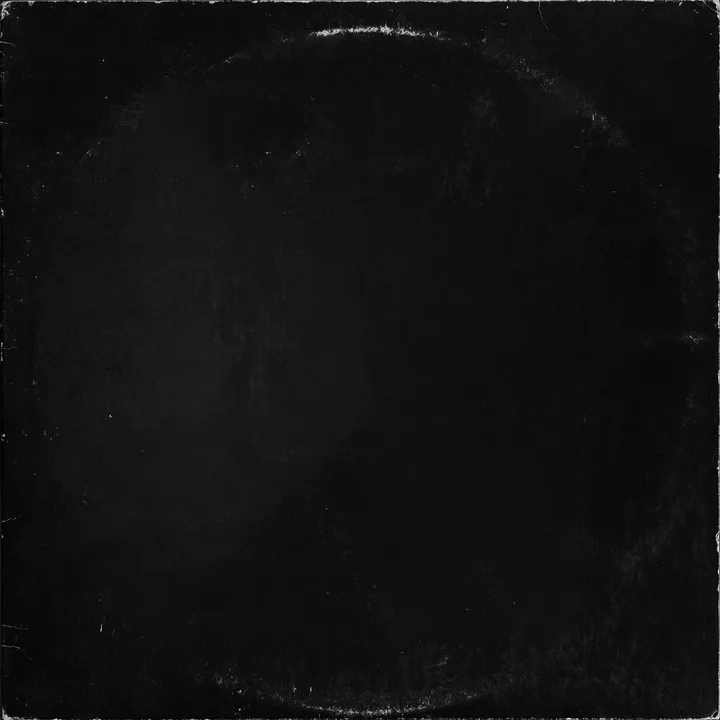
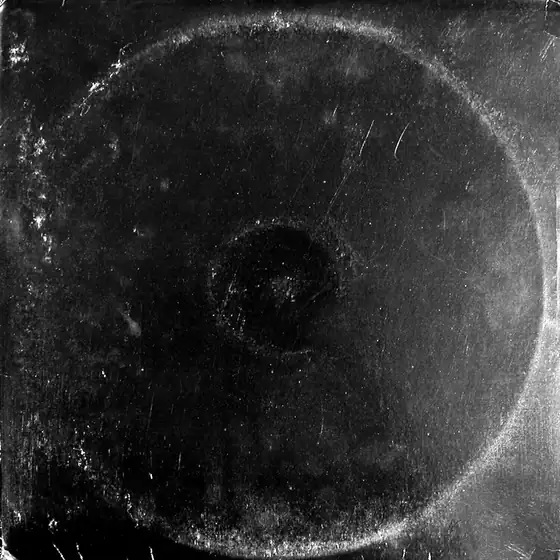
Swap the wear texture for ring wear
The first texture was edge scuffs and creases, and on pale artwork it
read as nothing at all. This one carries the mark that actually says
vinyl: the ring the record rubs into the card, centred and roughly
square-filling, so it lands where the record would have sat whatever the
artwork underneath.

Optimised against where it is drawn rather than against the source. The
largest sleeve on the site is 165 CSS px, so 560px clears 3x DPR with
room to spare: 699 KB down to 37 KB. It stops at q60 and is not
denoised — q50 with a light blur does reach 16 KB, but the compressor
turns this texture's grain into visible blocking and the ring goes
blotchy, which is an optimisation that costs the thing being optimised.

diff --git a/src/app/globals.css b/src/app/globals.css
@@ -73,8 +73,8 @@ body:has([data-player-visible="true"]) {
   padding-bottom: calc(132px + env(safe-area-inset-bottom));
 }
 
-/* Sleeve wear: scuffs, creases and a rubbed edge, screened over every album
-   cover. vinyl-kit's own texture layer is the paper grain, a mid-grey image
+/* Sleeve wear: the ring the record rubs into the card, plus scratches and a
+   scuffed edge, screened over every album cover. vinyl-kit's own texture layer is the paper grain, a mid-grey image
    multiplied onto the artwork; this is its opposite — a near-black image whose
    white marks are the only thing `screen` lets through. Grain darkens, wear
    lightens, and together they read as a sleeve that has been handled.

diff --git a/docs/superpowers/specs/2026-09-19-cover-wear-design.md b/docs/superpowers/specs/2026-09-19-cover-wear-design.md
@@ -1,9 +1,9 @@
 # Sleeve wear on album covers
 
 Album covers render flat: the artwork, a paper grain, and nothing else. A real
-sleeve has been handled — scuffed at the corners, creased across the opening,
-rubbed white where it has slid in and out of a shelf. This adds that second
-texture, so a cover reads as an object rather than an image.
+sleeve has been handled, and the record inside has pressed its own circle into
+the card — the ring wear you can read across a shelf from a metre away. This
+adds that second texture, so a cover reads as an object rather than an image.
 
 ## The two textures
 
@@ -12,11 +12,15 @@ vinyl-kit's `VinylSleeve` already carries one texture layer,
 `multiply` at opacity 0.6. That is the paper grain: a mid-grey image that
 darkens the artwork unevenly.
 
-The wear is its opposite. The source is near-black with bright white marks —
-scratches, creases, a rubbed edge — so the blend that suits it is `screen`:
-black leaves the artwork untouched and only the white marks survive. Grain
-darkens, wear lightens; together they are the usual recipe for a worn sleeve,
-and neither can do the other's job.
+The wear is its opposite. The source is near-black, carrying a bright ring
+where the record has rubbed the card, plus scratches and a scuffed edge — so
+the blend that suits it is `screen`: black leaves the artwork untouched and
+only the light marks survive. Grain darkens, wear lightens; together they are
+the usual recipe for a worn sleeve, and neither can do the other's job.
+
+The ring is centred and roughly square-filling, which is why the texture can be
+shared by every cover without looking pasted on: it lands where the record
+would have sat whatever the artwork underneath.
 
 ## Scope
 
@@ -34,13 +38,19 @@ package component that has no slot for one.
 
 ## 1. The asset
 
-`public/cover-wear.webp`, 720px square, converted from the 1048px source JPG
-(~540 KB → ~50 KB). It sits beside `cover-texture.png`, and the name separates
-the two jobs: grain and wear.
+`public/cover-wear.webp`, 560px square at WebP q60, converted from the 1024px
+source JPG (699 KB → 37 KB). It sits beside `cover-texture.png`, and the name
+separates the two jobs: grain and wear.
 
-720px is chosen against the largest rendered sleeve rather than the source's
-native size — the layer is a texture, not artwork, and its marks survive a
-downscale that halves the file.
+560px is sized against the largest sleeve the site renders — 165 CSS px, in
+`TrackHero` and `AlbumDetailCard` — which leaves headroom past 3x DPR. The
+layer is a texture, not artwork, so it is sized against where it is drawn
+rather than against the source.
+
+Quality stops at q60, and the file is not denoised. Pushing further down
+(q50 with a 0.7px blur) does reach 16 KB, but the compressor turns this
+texture's fine grain into visible blocking and the ring goes blotchy — an
+optimisation that costs the thing being optimised.
 
 ## 2. The layer
 
